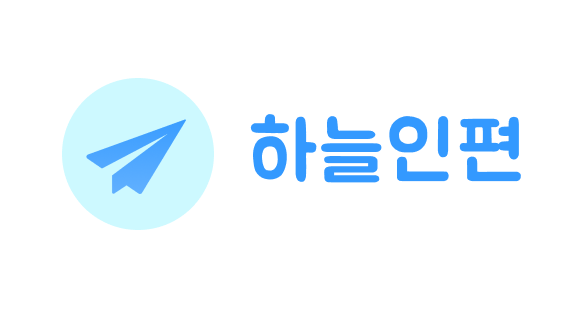
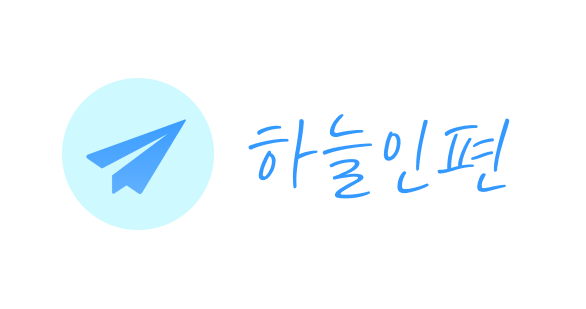
feat: edit opengraph image

Changed region(s): [[0.3993, 0.3786, 0.8908, 0.6408]]

diff --git a/src/app/report/server.tsx b/src/app/report/server.tsx
@@ -9,7 +9,7 @@ export async function sendEmail(message, senderEmail) {
       pass: process.env.GMAIL_PASSWORD // 이메일의 비밀번호
     }
   });
-  console.log(process.env.GMAIL_PASSWORD);
+  //console.log(process.env.GMAIL_PASSWORD);
   const mailOptions = {
     from: process.env.GMAIL_EMAIL, // 작성자
     to: '[email redacted]', // 수신자

diff --git a/README.md b/README.md
@@ -18,9 +18,6 @@
 
 ## Doing
 
-문의사항에 본인 이메일도 남기게 하기
-
-
 ## Todo
 
 서버 점검할 때 nginx단에서 다른페이지 보여주게 하기.